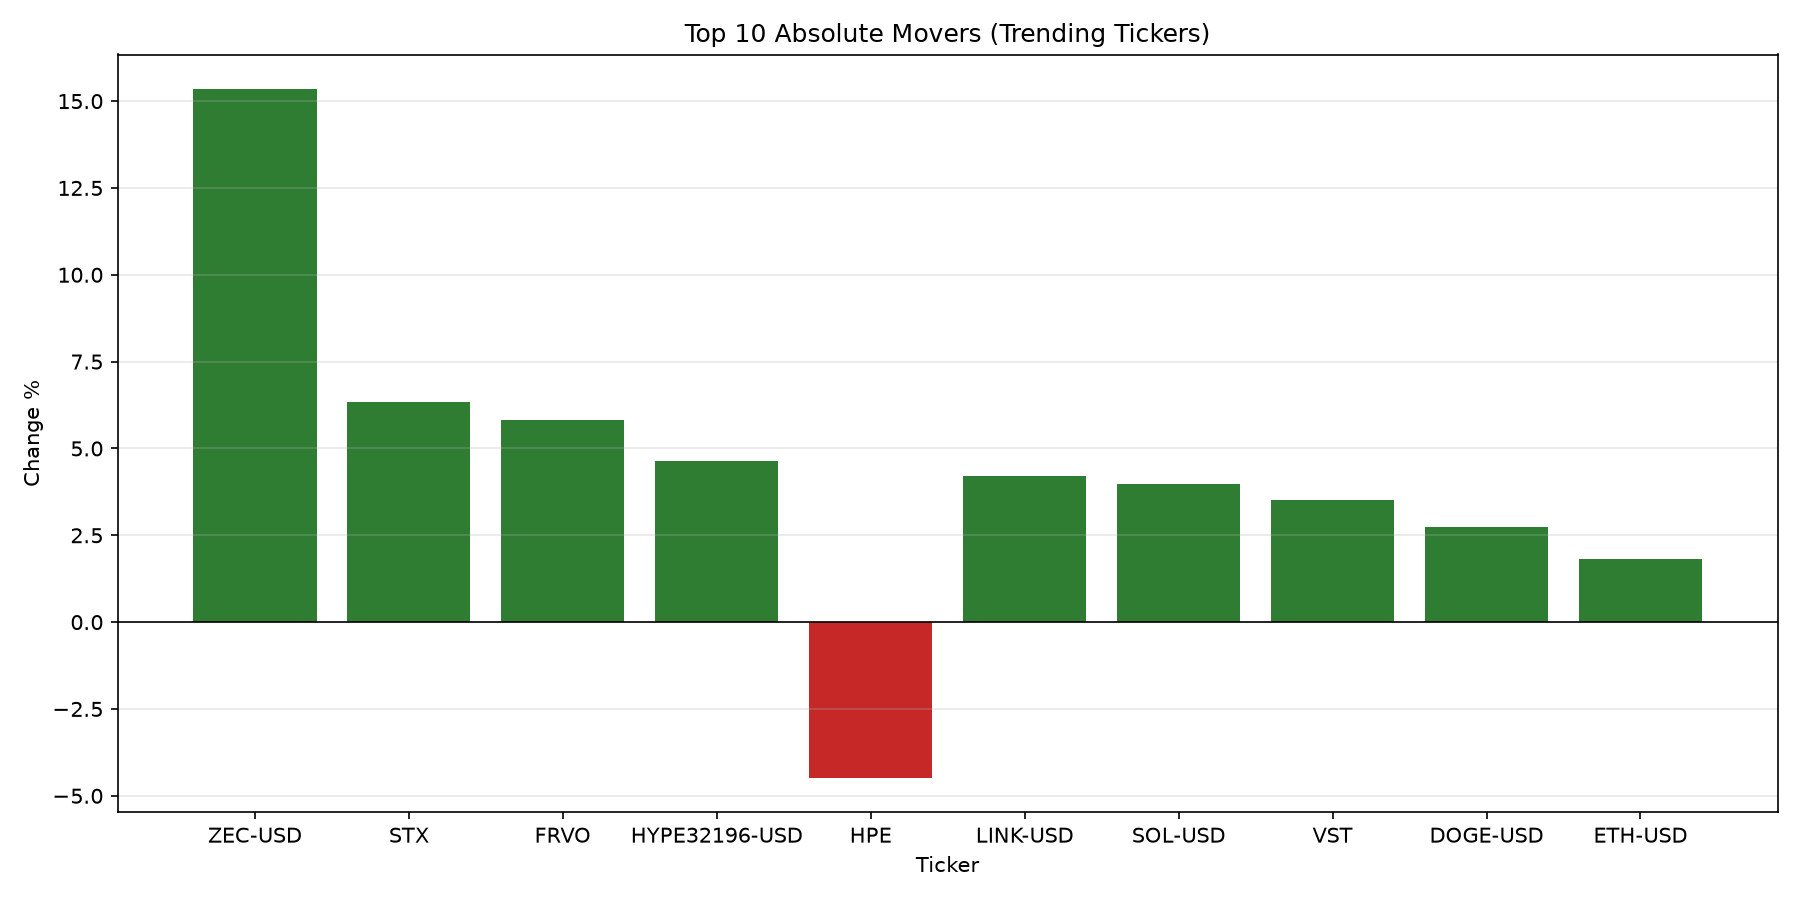
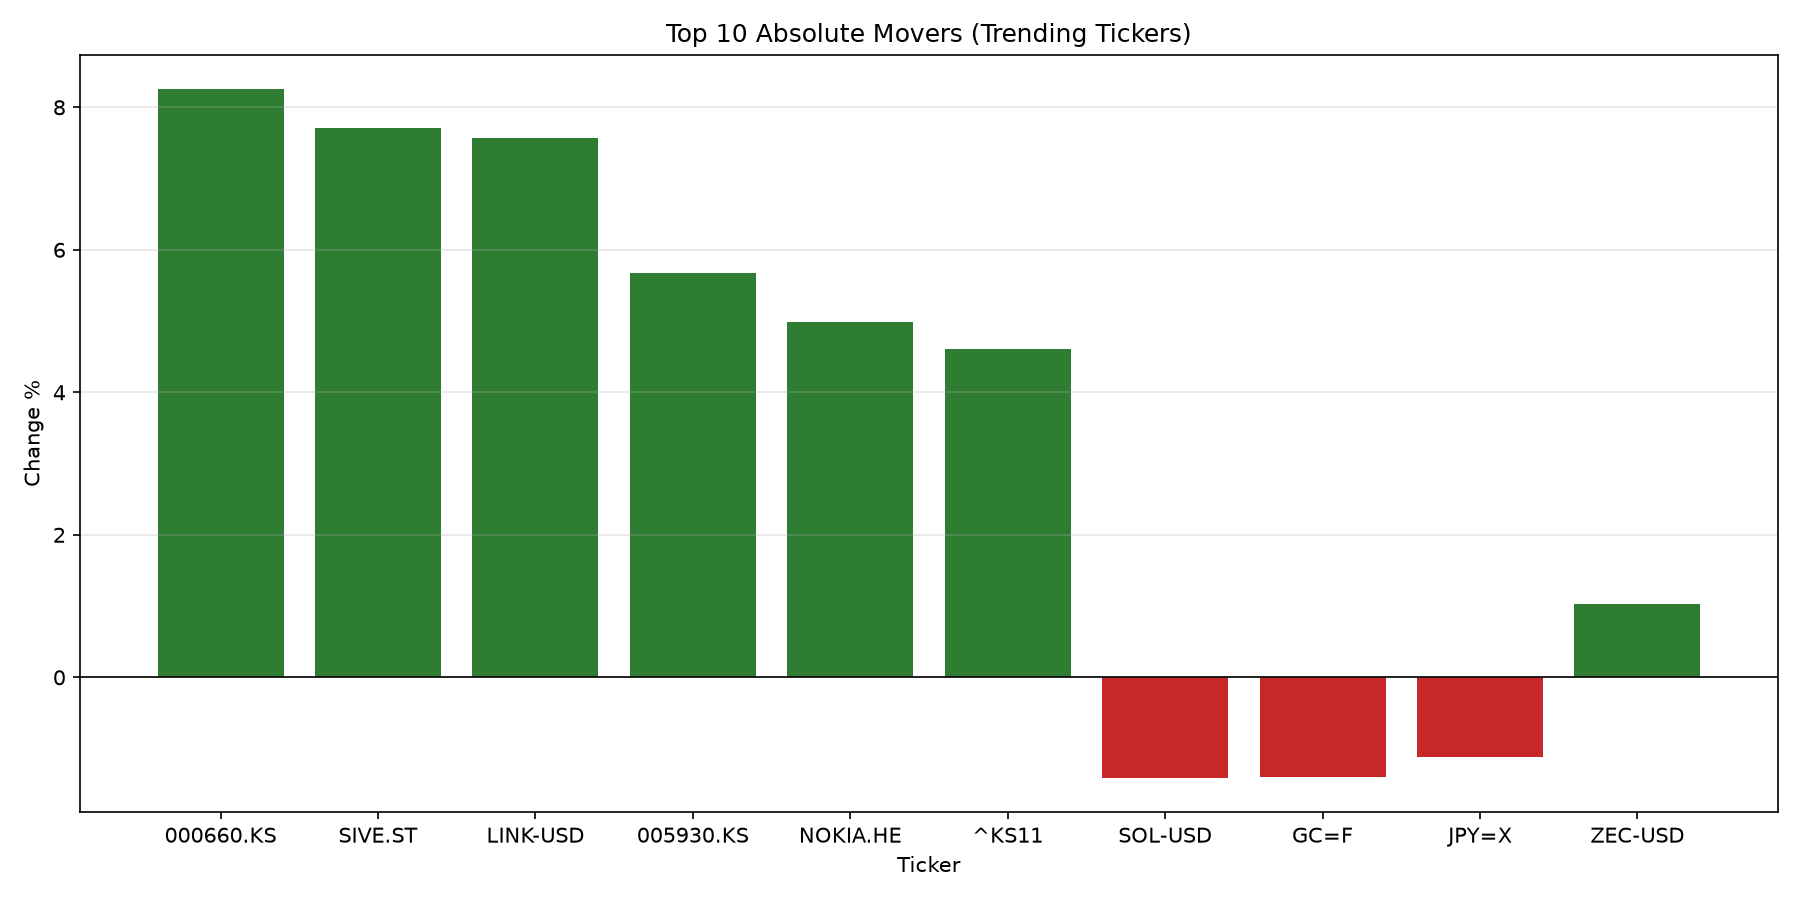
chore: daily metrics report update

diff --git a/README.md b/README.md
@@ -1,7 +1,7 @@
 # AI-Powered Real-Time Business Metrics Aggregator
 
 <!-- LAST_UPDATED_BADGE_START -->
-![Last Updated](https://img.shields.io/badge/Last%20Updated-2026--09--06%2013%3A01%20UTC-blue)
+![Last Updated](https://img.shields.io/badge/Last%20Updated-2026--09--07%2013%3A02%20UTC-blue)
 <!-- LAST_UPDATED_BADGE_END -->
 
 
@@ -146,27 +146,27 @@ This project demonstrates a full pipeline for ingesting, transforming, and analy
 <!-- DAILY_REPORT_START -->
 ## Daily Automated Market Summary
 
-- Last refresh (UTC): **2026-09-06 13:01:49**
+- Last refresh (UTC): **2026-09-07 13:02:20**
 - Tickers tracked: **20**
-- Average change: **+2.28%**
-- Median change: **+0.81%**
-- Top gainer: **ZEC-USD (+15.35%)**
-- Top loser: **HPE (-4.48%)**
+- Average change: **+1.71%**
+- Median change: **-0.18%**
+- Top gainer: **000660.KS (+8.26%)**
+- Top loser: **SOL-USD (-1.41%)**
 
 ### Top Movers
 
 | Symbol | Name | Price | Change % |
 |---|---|---:|---:|
-| ZEC-USD | Zcash USD | 1169.63 | +15.35% |
-| STX | Seagate Technology Holdings PLC | 849.28 | +6.34% |
-| FRVO | Fervo Energy Company | 18.16 | +5.83% |
-| HYPE32196-USD | Hyperliquid USD | 89.12 | +4.65% |
-| LINK-USD | Chainlink USD | 12.34 | +4.20% |
-| SOL-USD | Solana USD | 106.75 | +3.98% |
-| VST | Vistra Corp. | 149.30 | +3.52% |
-| DOGE-USD | Dogecoin USD | 0.09 | +2.73% |
-| ETH-USD | Ethereum USD | 2498.79 | +1.80% |
-| ANET | Arista Networks, Inc. | 193.78 | +1.22% |
+| 000660.KS | SK hynix | 1783000.00 | +8.26% |
+| SIVE.ST | Sivers Semiconductors AB | 29.36 | +7.70% |
+| LINK-USD | Chainlink USD | 13.26 | +7.57% |
+| 005930.KS | SamsungElec | 270000.00 | +5.68% |
+| NOKIA.HE | Nokia Corporation | 9.09 | +4.99% |
+| ^KS11 | KOSPI Composite Index | 6995.39 | +4.61% |
+| ZEC-USD | Zcash USD | 1194.20 | +1.02% |
+| BZ=F | Brent Crude Oil Last Day Financ | 96.28 | +0.80% |
+| ETH-USD | Ethereum USD | 2503.68 | +0.36% |
+| EURUSD=X | USD/EUR | 0.86 | -0.07% |
 
 ### Daily Visuals
 
